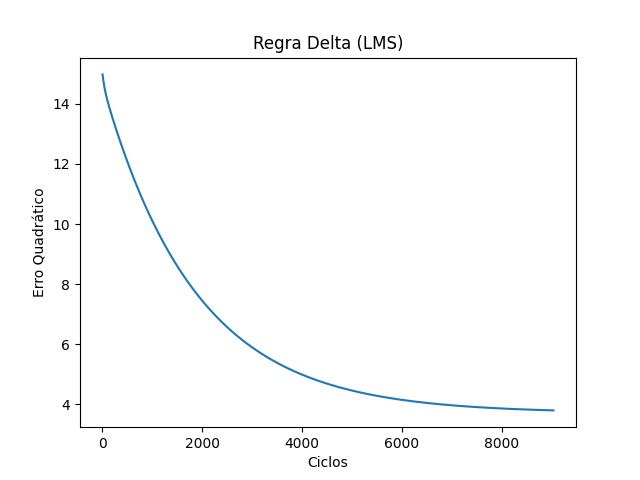
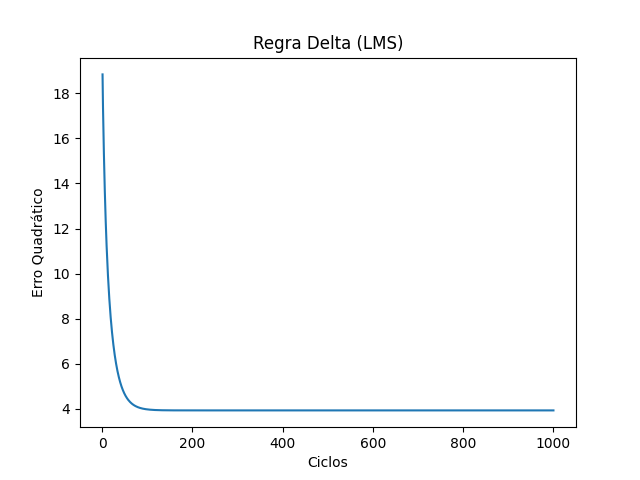
Playing with the program

diff --git a/src/main.py b/src/main.py
@@ -16,10 +16,10 @@ def LMS_algoritmo(entradas, target):
     LMS_erro = []
     LMS_ciclos = []
 
-    erro_minimo = 0.37235741682805046
+    erro_minimo = 0.04
     ciclos = 0
-    ciclos_maximo = 10000
-    taxa_aprendizagem = 0.0001 #random.uniform(0.0, 1.0) [MIN: 0.0001, MAX: 0.03]
+    ciclos_maximo = 1000
+    taxa_aprendizagem = 0.01 #random.uniform(0.0, 1.0) [MIN: 0.001, MAX: 0.03]
     w = [random.uniform(-0.5, 0.5) for _ in range(len(entradas[0]))]
     b = random.uniform(-0.5, 0.5)
     # taxa_aprendizagem = 0.05
